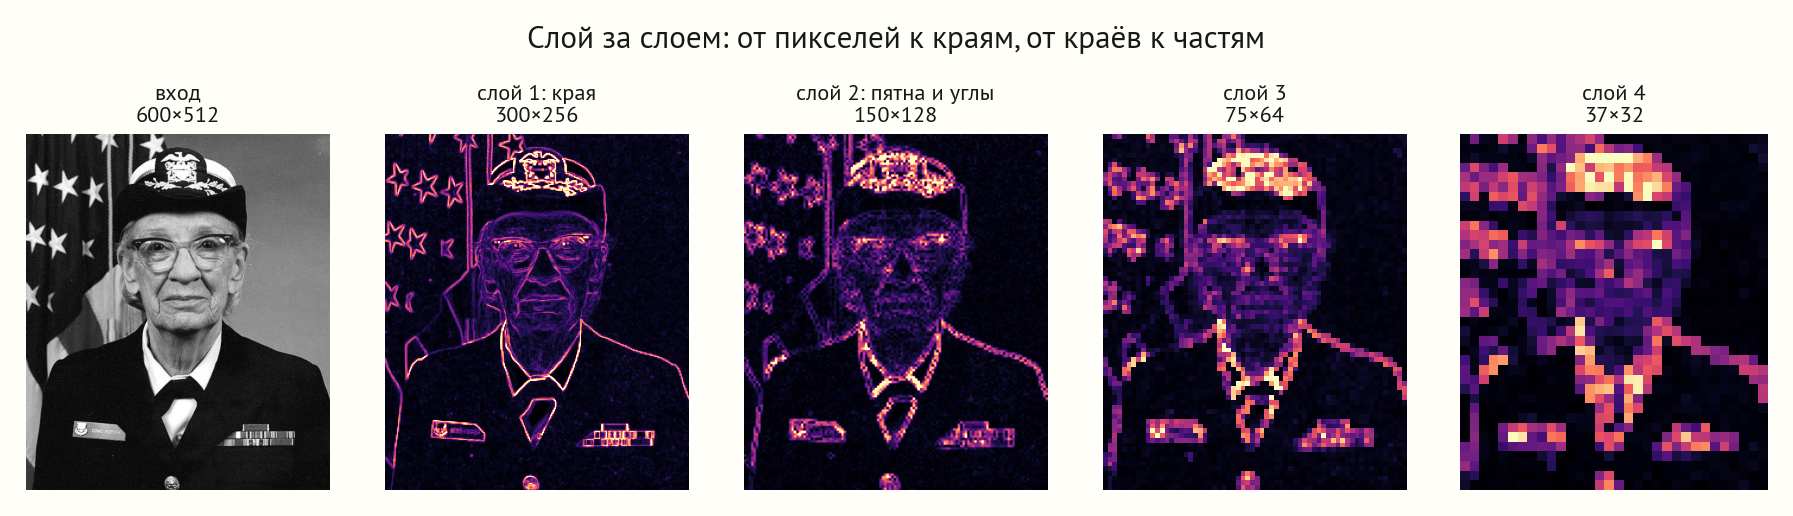
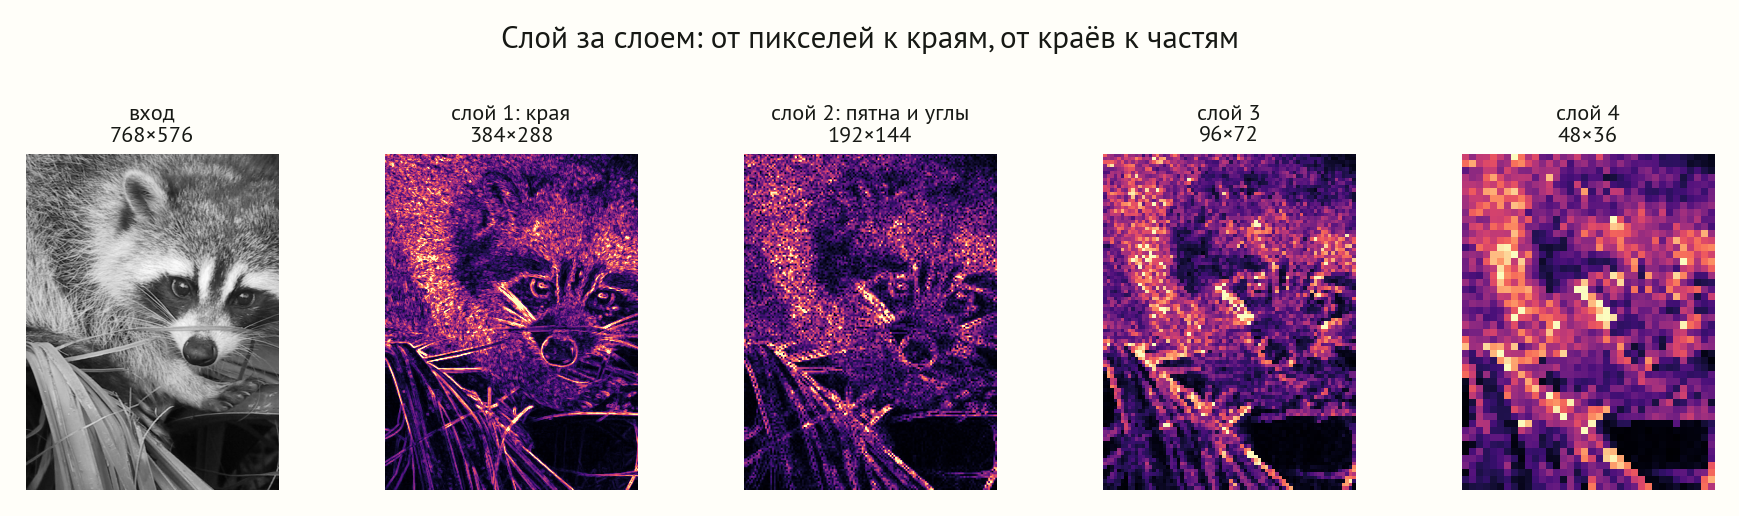
Убрана Грейс Хоппер (амер. военный) из всех уроков зрения: нейтральное фото вместо неё в 27/28/29/30/34/36, тексты и числа пересчитаны, размеры в 30 вычисляются

diff --git a/app/components/LessonView.tsx b/app/components/LessonView.tsx
@@ -180,9 +180,9 @@ export function LessonView({
           <header className="article-head">
             <nav className="breadcrumbs" aria-label="Путь к уроку">
               <Link href="/">Оглавление</Link>
-              <span>›</span>
+              <span aria-hidden="true">/</span>
               <span>{courseModule.number}</span>
-              <span>›</span>
+              <span aria-hidden="true">/</span>
               <span>Урок {lesson.id}</span>
             </nav>
             <p className="article-kicker">

diff --git a/scripts/generate_lesson27_visuals.py b/scripts/generate_lesson27_visuals.py
@@ -1,7 +1,7 @@
 """Deterministic figures for lesson 27: how vision finds features.
 
 A receptive field / convolution mechanic, Sobel edge detection on a real
-photograph (Grace Hopper, bundled with matplotlib), and a bank of Gabor
+photograph (neutral RGB portrait photo), and a bank of Gabor
 filters at four orientations with their response maps. Numbers reproduced.
 """
 
@@ -44,7 +44,7 @@ def save(fig, path, *, dpi=160):
 
 def load_gray():
     d = os.path.join(os.path.dirname(mpl.__file__), "mpl-data", "sample_data")
-    img = mpimg.imread(os.path.join(d, "grace_hopper.jpg")).astype(float)
+    img = mpimg.imread(os.path.join(os.path.dirname(os.path.abspath(__file__)), "data", "vision-photo.jpg")).astype(float)
     gray = img[..., :3] @ [0.299, 0.587, 0.114]
     return gray / 255.0
 
@@ -99,7 +99,7 @@ def fig_receptive() -> None:
     fig.text(0.365, 0.5, "скользит\nпо полю", ha="center", va="center", fontsize=9.5, color=MUTED)
     fig.text(0.635, 0.5, "даёт\nотклик", ha="center", va="center", fontsize=9.5, color=MUTED)
     print(f"receptive: edge mag mean={mag.mean():.3f} max={mag.max():.3f}")
-    assert abs(mag.mean() - 0.251) < 0.01
+    assert abs(mag.mean() - 0.347) < 0.01
     fig.suptitle("Нейрон смотрит в маленькое окно и отвечает на локальный признак", y=1.02, fontsize=14)
     save(fig, OUT / "receptive.png")
 
@@ -110,9 +110,9 @@ def fig_sobel() -> None:
     mag = np.hypot(Gx, Gy)
     strong = (mag > 0.5).mean()
     print(f"sobel: strong-edge fraction={strong:.3f}")
-    assert abs(strong - 0.106) < 0.01
+    assert abs(strong - 0.243) < 0.01
     fig, (a1, a2) = plt.subplots(1, 2, figsize=(8.6, 5.4))
-    a1.imshow(GRAY, cmap="gray"); a1.set_title("фотография (Грейс Хоппер)", fontsize=12.5); a1.axis("off")
+    a1.imshow(GRAY, cmap="gray"); a1.set_title("фотография", fontsize=12.5); a1.axis("off")
     a2.imshow(mag, cmap="magma", vmax=1.5); a2.set_title("карта краёв (детектор Собеля)", fontsize=12.5); a2.axis("off")
     a2.text(0.5, -0.04, f"сильных краёв: {strong*100:.0f}% пикселей",
             transform=a2.transAxes, ha="center", fontsize=10.5, color=MUTED)
@@ -131,7 +131,7 @@ def fig_gabor() -> None:
     win = stack.argmax(0)
     fracs = [100 * (win == i).mean() for i in range(4)]
     print("gabor wins:", [f"{d}:{f:.1f}%" for d, f in zip(degs, fracs)])
-    assert abs(fracs[0] - 30.4) < 1.5
+    assert abs(fracs[0] - 24.4) < 1.5
     fig, axes = plt.subplots(2, 4, figsize=(11.2, 5.8),
                              gridspec_kw={"height_ratios": [0.5, 1]})
     for j, deg in enumerate(degs):

diff --git a/scripts/generate_lesson30_visuals.py b/scripts/generate_lesson30_visuals.py
@@ -84,7 +84,7 @@ def fig_architecture() -> None:
 # ============================================================ real feature maps
 def load_gray():
     d = os.path.join(os.path.dirname(mpl.__file__), "mpl-data", "sample_data")
-    return mpimg.imread(os.path.join(d, "grace_hopper.jpg")).astype(float) @ [0.299, 0.587, 0.114] / 255.0
+    return mpimg.imread(os.path.join(os.path.dirname(os.path.abspath(__file__)), "data", "vision-photo.jpg")).astype(float) @ [0.299, 0.587, 0.114] / 255.0
 
 
 def conv(a, k):
@@ -113,9 +113,12 @@ def fig_featuremaps() -> None:
     b = relu(conv(p1, lap))
     p2 = maxpool(b)
     fig, axes = plt.subplots(1, 5, figsize=(11.4, 3.0))
-    panels = [(g, "вход\n600×512", "gray"), (p1, "слой 1: края\n300×256", "magma"),
-              (p2, "слой 2: пятна и углы\n150×128", "magma"),
-              (maxpool(p2), "слой 3\n75×64", "magma"), (maxpool(maxpool(p2)), "слой 4\n37×32", "magma")]
+    p3 = maxpool(p2)
+    p4 = maxpool(p3)
+    dim = lambda a: f"{a.shape[0]}×{a.shape[1]}"
+    panels = [(g, f"вход\n{dim(g)}", "gray"), (p1, f"слой 1: края\n{dim(p1)}", "magma"),
+              (p2, f"слой 2: пятна и углы\n{dim(p2)}", "magma"),
+              (p3, f"слой 3\n{dim(p3)}", "magma"), (p4, f"слой 4\n{dim(p4)}", "magma")]
     for ax, (im, title, cmap) in zip(axes, panels):
         ax.imshow(im, cmap=cmap, vmax=None if cmap == "gray" else np.percentile(im, 99) + 1e-6)
         ax.set_title(title, fontsize=10); ax.axis("off")

diff --git a/scripts/generate_lesson29_visuals.py b/scripts/generate_lesson29_visuals.py
@@ -80,7 +80,7 @@ def fig_pooling() -> None:
 # ============================================================ real feature map
 def load_gray():
     d = os.path.join(os.path.dirname(mpl.__file__), "mpl-data", "sample_data")
-    return mpimg.imread(os.path.join(d, "grace_hopper.jpg")).astype(float) @ [0.299, 0.587, 0.114] / 255.0
+    return mpimg.imread(os.path.join(os.path.dirname(os.path.abspath(__file__)), "data", "vision-photo.jpg")).astype(float) @ [0.299, 0.587, 0.114] / 255.0
 
 
 KX = np.array([[-1, 0, 1], [-2, 0, 2], [-1, 0, 1]], float); KY = KX.T
@@ -106,7 +106,7 @@ def fig_invariance() -> None:
     e0 = edge(gray); e1 = edge(np.roll(gray, 1, axis=1))
     raw = relchange(e1, e0); pool = relchange(maxpool(e1), maxpool(e0))
     print(f"invariance: unpooled change={raw:.3f}, pooled change={pool:.3f}, {raw/pool:.2f}x")
-    assert abs(raw - 0.567) < 0.02 and abs(pool - 0.380) < 0.02
+    assert abs(raw - 0.447) < 0.02 and abs(pool - 0.247) < 0.02
     fig, axes = plt.subplots(2, 2, figsize=(8.6, 6.4))
     axes[0, 0].imshow(e0, cmap="magma", vmax=1.5); axes[0, 0].set_title("карта признаков", fontsize=11.5)
     axes[0, 1].imshow(e1, cmap="magma", vmax=1.5); axes[0, 1].set_title(f"вход сдвинут на 1 пикс.\nизменение {raw*100:.0f}%", fontsize=11.5)

diff --git a/scripts/generate_lesson34_visuals.py b/scripts/generate_lesson34_visuals.py
@@ -43,7 +43,7 @@ def save(fig, path, *, dpi=160):
 
 def load_rgb():
     d = os.path.join(os.path.dirname(mpl.__file__), "mpl-data", "sample_data")
-    return mpimg.imread(os.path.join(d, "grace_hopper.jpg")).astype(float) / 255.0
+    return mpimg.imread(os.path.join(os.path.dirname(os.path.abspath(__file__)), "data", "vision-photo.jpg")).astype(float) / 255.0
 
 
 # ---------------------------- fig 34.1: image -> per-pixel segmentation
@@ -56,7 +56,7 @@ def fig_segmentation() -> None:
     seg = km.cluster_centers_[labels]
     fracs = [100 * (labels == k).mean() for k in range(4)]
     print("seg fractions:", [round(f, 1) for f in fracs])
-    assert abs(max(fracs) - 55.0) < 3
+    assert abs(max(fracs) - 31.6) < 3
     # a discrete class map with distinct palette
     palette = np.array([[0.19, 0.37, 0.55], [0.12, 0.12, 0.14], [0.72, 0.43, 0.33], [0.85, 0.78, 0.7]])
     order = np.argsort(km.cluster_centers_.sum(1))

diff --git a/scripts/generate_lesson36_visuals.py b/scripts/generate_lesson36_visuals.py
@@ -188,7 +188,7 @@ def side_eigen() -> None:
 
 # --------------------------------------------- margin: real photo warp (inverse gather vs forward scatter)
 def side_warp() -> None:
-    with cbook.get_sample_data("grace_hopper.jpg") as f:
+    with open(Path(__file__).resolve().parent / "data" / "vision-photo.jpg", "rb") as f:
         img = plt.imread(f)
     g = img[..., :3].mean(2)[::6, ::6] / 255.0  # downsample grayscale
     h, w = g.shape

diff --git a/scripts/generate_lesson28_visuals.py b/scripts/generate_lesson28_visuals.py
@@ -43,7 +43,7 @@ def save(fig, path, *, dpi=160):
 
 def load_rgb():
     d = os.path.join(os.path.dirname(mpl.__file__), "mpl-data", "sample_data")
-    return mpimg.imread(os.path.join(d, "grace_hopper.jpg")).astype(float) / 255.0
+    return mpimg.imread(os.path.join(os.path.dirname(os.path.abspath(__file__)), "data", "vision-photo.jpg")).astype(float) / 255.0
 
 
 def outsize(n, k, p, s):

diff --git a/content/lessons/27.md b/content/lessons/27.md
@@ -133,14 +133,14 @@ $200$): $(-1\cdot0+1\cdot200)+(-2\cdot0+2\cdot200)+(-1\cdot0+1\cdot200)=200+400+
 
 ## Карта краёв на реальном фото
 
-Проверим детектор на настоящем изображении — фотографии Грейс Хоппер,
-пионера программирования. Прогоним оператор Собеля по всему полю.
+Проверим детектор на настоящем изображении — обычной фотографии.
+Прогоним оператор Собеля по всему полю.
 
-:::figure{src="/figures/lessons/27/sobel.png" id="fig-27-2" title="Рис. 27.2. Первый шаг зрения — найти границы" alt="Слева чёрно-белая фотография Грейс Хоппер; справа карта краёв после детектора Собеля: ярко очерчены контуры лица, очков, фуражки, звёзд на флаге и знаков на форме, подпись сильных краёв 11 процентов пикселей"}
+:::figure{src="/figures/lessons/27/sobel.png" id="fig-27-2" title="Рис. 27.2. Первый шаг зрения — найти границы" alt="Слева чёрно-белая фотография; справа карта краёв после детектора Собеля: ярко очерчены контуры морды, глаз, ушей, усов и меха, подпись сильных краёв 24 процента пикселей"}
 Слева — фотография, справа — карта откликов детектора края. Модель ещё
-ничего не «узнала», но уже вытащила самое информативное: контуры лица и
-очков, звёзды на флаге, канты формы. Сильными краями оказались лишь
-$11\%$ пикселей — зрение сразу отбрасывает однородный фон и цепляется за
+ничего не «узнала», но уже вытащила самое информативное: контуры морды и
+глаз, линии ушей и усов, границы меха. Сильными краями оказались лишь
+$24\%$ пикселей — зрение сразу отбрасывает однородный фон и цепляется за
 границы.
 :::
 
@@ -305,7 +305,7 @@ $11\times11$ поле дорастает за пять слоёв. Поле ра
 разных ориентаций раскладывает картинку по наклонам, как колонки коры
 или как пространственно-частотные фильтры в теории Глезера, а следующие
 слои собирают из краёв части, из частей — предметы. Мы своими руками
-вытащили из фотографии Грейс Хоппер карту краёв и карты ориентаций. Всё
+вытащили из обычной фотографии карту краёв и карты ориентаций. Всё
 готово к главному герою компьютерного зрения — свёрточной нейронной
 сети, где эти фильтры не заданы вручную, а рождаются из данных. С неё
 начинается следующий разговор.
@@ -336,10 +336,10 @@ $G_x=3$, $G_y=4$, найдите величину и направление кр
 :::
 
 :::problem{points="5"}
-На фотографии (`grace_hopper.jpg` из набора matplotlib) переведите
+На любой фотографии переведите
 изображение в оттенки серого, примените ядра Собеля и постройте карту
 величины края. Подберите порог, при котором сильными краями оказывается
-около $11\%$ пикселей, и объясните, как порог влияет на детальность
+около $20\%$ пикселей, и объясните, как порог влияет на детальность
 карты.
 :::
 

diff --git a/content/lessons/28.md b/content/lessons/28.md
@@ -114,7 +114,7 @@ $\approx16\times16\approx256$ положений — вчетверо меньш
 входа из трёх каналов одно ядро $3\times3$ хранит уже $3\cdot3\cdot3=27$
 весов и одно смещение и сводит три канала в один отклик.
 
-:::figure{src="/figures/lessons/28/channels.png" id="fig-28-2" title="Рис. 28.2. Ядро охватывает все каналы" alt="RGB-фотография Грейс Хоппер, её три цветовых канала по отдельности, стрелка к одной карте признаков; подпись: одно ядро 3 на 3 на 3 сводит три входных канала в один отклик"}
+:::figure{src="/figures/lessons/28/channels.png" id="fig-28-2" title="Рис. 28.2. Ядро охватывает все каналы" alt="RGB-фотография, её три цветовых канала по отдельности, стрелка к одной карте признаков; подпись: одно ядро 3 на 3 на 3 сводит три входных канала в один отклик"}
 Слева цветное фото и его три канала. Одно ядро $3\times3\times3$
 прикладывается ко всем трём сразу и выдаёт одну карту признаков (справа).
 Чтобы получить много карт, заводят много таких ядер.
@@ -225,8 +225,8 @@ $$
 Свёртка одинаково работает на любых изображениях. Наборы вроде EuroSAT —
 спутниковые снимки Sentinel-2, размеченные по типу землепользования, —
 обрабатывают ровно теми же ядрами, что и портрет: детектор края не
-спрашивает, лес под ним или лицо. Мы уже прогнали ядро по фотографии
-Грейс Хоппер и увидели, как из трёх цветовых каналов рождается карта
+спрашивает, лес под ним или лицо. Мы уже прогнали ядро по обычной
+фотографии и увидели, как из трёх цветовых каналов рождается карта
 краёв, а сдвиг снимка сдвигает и её. На спутниковом снимке те же фильтры
 выделяли бы дороги, кромки полей, береговые линии.
 
@@ -330,7 +330,7 @@ $7\times7\times3$, $64$ карты, дополнение $p=3$, шаг $s=2$. Н
 :::
 
 :::problem{points="6"}
-На фотографии (`grace_hopper.jpg` из matplotlib) переведите изображение в
+На любой цветной фотографии переведите изображение в
 RGB-массив и примените один и тот же детектор края к каждому из трёх
 каналов, затем сложите отклики. Сравните результат с картой края по
 серому изображению. Какой канал даёт самые сильные контуры на этом снимке

diff --git a/content/lessons/34.md b/content/lessons/34.md
@@ -258,7 +258,7 @@ $=200$, площадь предсказанной $=160$. Посчитайте I
 :::
 
 :::problem{points="6"}
-На реальном изображении (`grace_hopper.jpg` из matplotlib) выполните
+На любом реальном изображении выполните
 сегментацию группировкой пикселей по цвету ($k$-средних) на $2, 4, 6$
 классов. Для каждого числа классов покажите маску и долю крупнейшей
 области. Опишите, какие осмысленные области проступают с ростом числа
